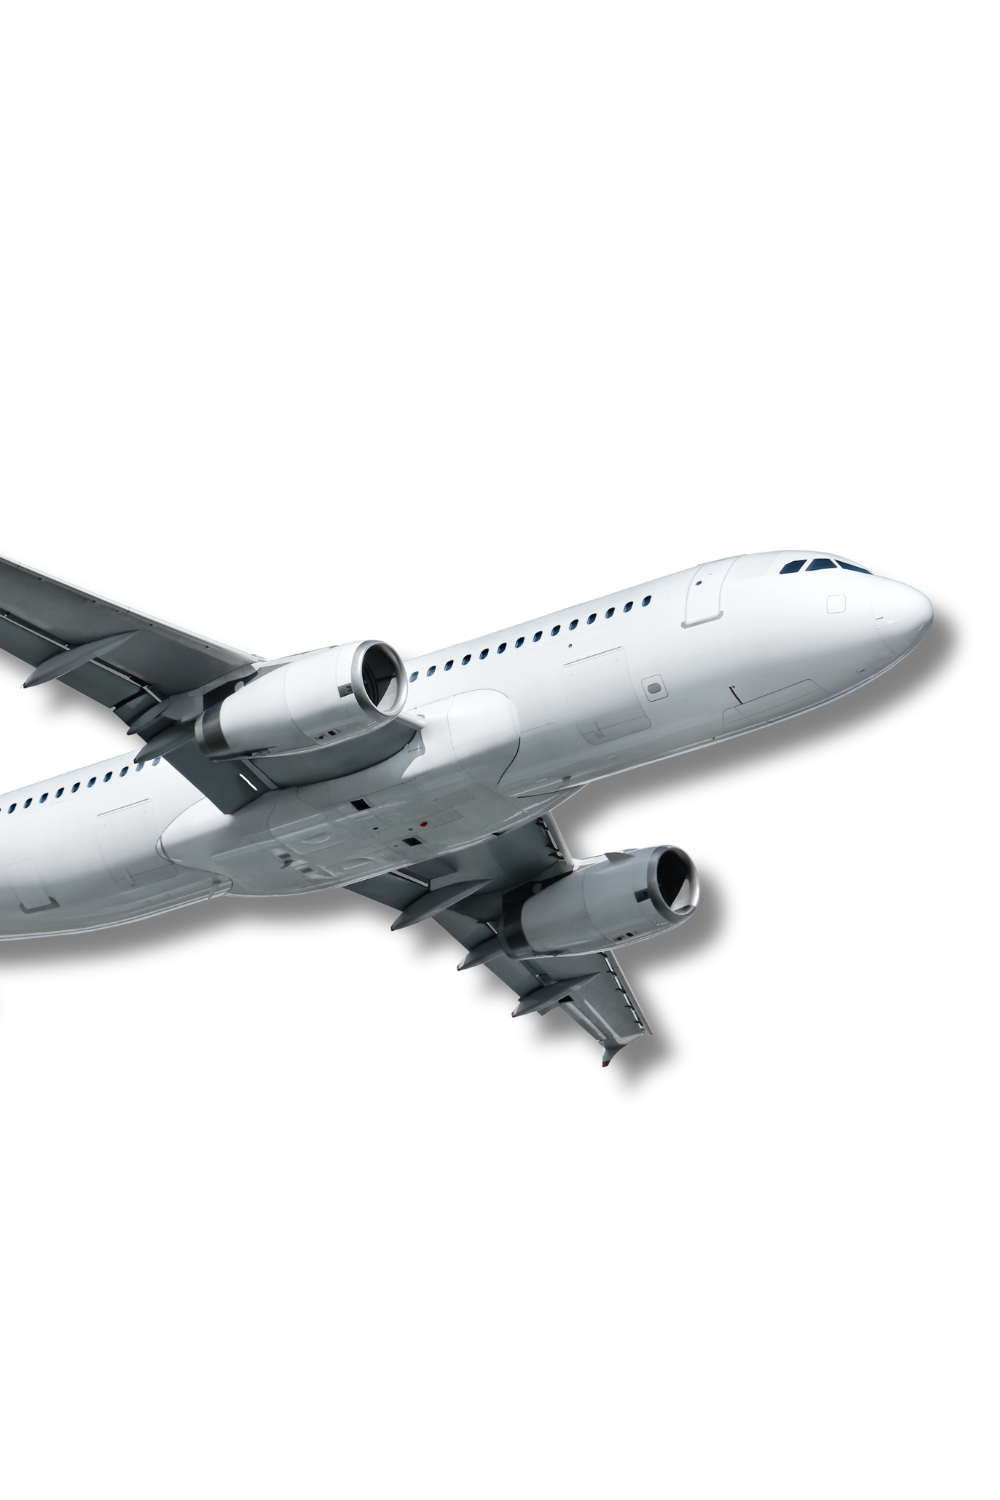
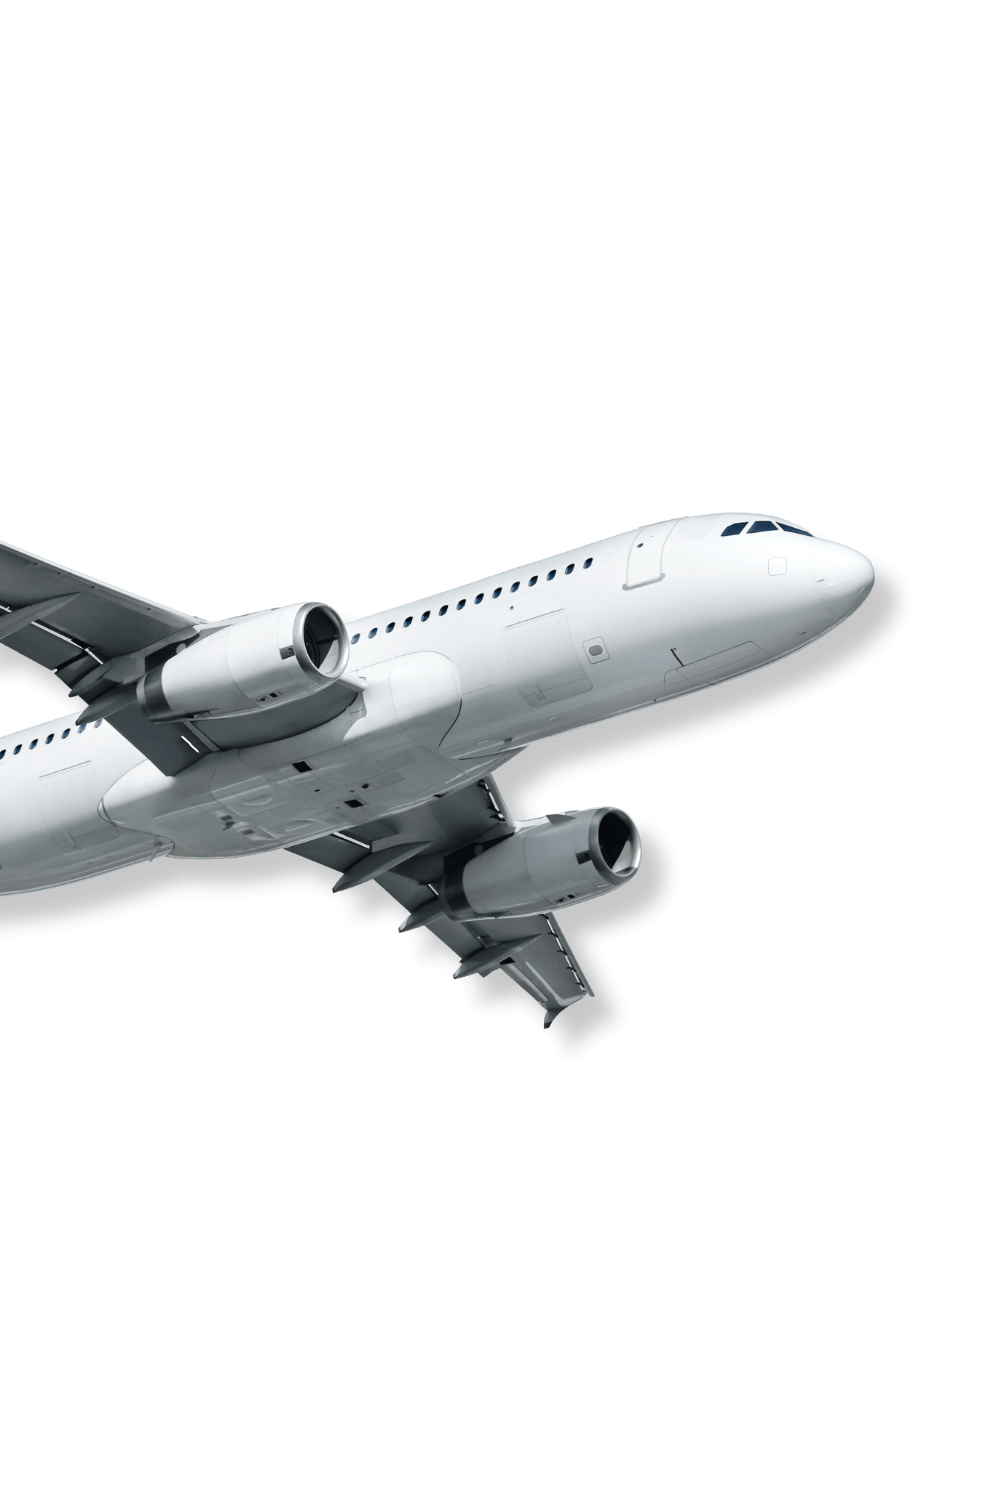
done all changes

Changed region(s): [[0.0, 0.3373, 0.961, 0.736]]

diff --git a/contact.html b/contact.html
@@ -394,7 +394,7 @@
                                     <span class="text-danger">*</span>
                                 </label>
                             </div>
-                            <button href="#" class="button mt-4" id="submit">
+                            <button href="#" class="button mt-4" id="submit" >
                                 <span class="button__icon-wrapper">
                                     <svg viewBox="0 0 14 15" fill="none" xmlns="http://www.w3.org/2000/svg"
                                         class="button__icon-svg" width="10">
@@ -750,21 +750,21 @@
                 <p>Tell us what you’re building — we’ll help you how to get there, faster and smarter.
                     Response guaranteed within 24 hours.</p>
             </div>
-            <form action="" class="mt-4" id="contact-form">
+            <form action="" class="mt-4" id="enquiry-form">
                 <div class="form-group d-sm-flex gap-3 ">
-                    <input class="my-3" type="text" required placeholder="First Name" id="FirstName">
-                    <input class="my-3" type="text" required placeholder="Last Name" id="LastName">
+                    <input class="my-3" type="text" required placeholder="First Name" id="txtFirstName">
+                    <input class="my-3" type="text" required placeholder="Last Name" id="txtLastName">
                 </div>
                 <div class="form-group d-sm-flex gap-3 ">
-                    <input class="my-3" type="text" required placeholder="Company" id="Company">
-                    <input class="my-3" type="text" required placeholder="Email Address" id="EmailAddress">
+                    <input class="my-3" type="text" required placeholder="Company" id="txtCompany">
+                    <input class="my-3" type="text" required placeholder="Email Address" id="txtEmailAddress">
                 </div>
                 <div class="form-group d-sm-flex gap-3 ">
-                    <input class="my-3" type="text" required placeholder="Phone No." id="PhoneNo">
-                    <input class="my-3" type="text" required placeholder="Industry" id="Industry">
+                    <input class="my-3" type="text" required placeholder="Phone No." id="txtPhoneNo">
+                    <input class="my-3" type="text" required placeholder="Industry" id="txtIndustry">
                 </div>
                 <div class="form-group">
-                    <textarea name="" placeholder="I want to know more about" id="Inquiry"></textarea>
+                    <textarea name="" placeholder="I want to know more about" id="txtInquiry"></textarea>
 
                 </div>
                 <div class="d-flex gap-3">
@@ -790,8 +790,8 @@
                     </span>
                     Submit
                 </button>
-                <div id="message" class="message"></div>
-                <div id="error" class="error"></div>
+                <div id="txtmessage" class="txtmessage"></div>
+                <div id="txterror" class="txterror"></div>
             </form>
         </div>
     </div>
@@ -1099,6 +1099,111 @@
     <script src="animations.js"></script>
     <script src="script.js"></script>
 
+
+
+
+
+
+
+
+
+<script>
+
+function customEncodeURI(str) {
+  return str.replace(/[@]/g, '%40')
+    .replace(/[:]/g, '%3A')
+    .replace(/[?]/g, '%3F')
+    .replace(/[/]/g, '%2F')
+    .replace(/[#]/g, '%23')
+    .replace(/[&]/g, '%26')
+    .replace(/[=]/g, '%3D')
+    .replace(/[+]/g, '%2B')
+    .replace(/[ ]/g, '%20');
+}
+
+document.getElementById('enquiry-form').addEventListener('submit', function (e) {
+    debugger
+  e.preventDefault();
+  console.log('Form submitted');
+  const toEmail = document.getElementById('txtEmailAddress').value;
+  const firstname = document.getElementById('txtFirstName').value;
+  const lastname = document.getElementById('txtLastName').value;
+  const company = document.getElementById('txtCompany').value;
+  const phoneno = document.getElementById('txtPhoneNo').value;
+  const industry = document.getElementById('txtIndustry').value;
+  const email = document.getElementById('txtEmailAddress').value; // Same as toEmail
+  const inquiry = document.getElementById('txtInquiry').value;
+  const subject = "";
+  const htmlContent = "";
+  const messageDiv = document.getElementById('txtmessage');
+  const errorDiv = document.getElementById('txterror');
+
+  messageDiv.textContent = '';
+  errorDiv.textContent = '';
+
+  //const url = 'http://172.21.4.191:80/api/email/sendemail?toEmail=' + customEncodeURI(toEmail) + //testing 
+
+  const url = 'https://api.jkmaini.com/api/email/sendemail?firstname=' + customEncodeURI(firstname) +
+    '&lastname=' + customEncodeURI(lastname) +
+    '&company=' + customEncodeURI(company) +
+    '&phoneno=' + customEncodeURI(phoneno) +
+    '&industry=' + customEncodeURI(industry) +
+    '&email=' + customEncodeURI(email) +
+    '&inquiry=' + customEncodeURI(inquiry);
+
+  console.log('URL:', url);
+  console.log('Payload:', JSON.stringify({ subject, htmlContent }));
+  // For proxy: fetch('/api/email/sendemail?toEmail=' + customEncodeURI(toEmail) + '&firstname=' + customEncodeURI(firstname) + '&lastname=' + customEncodeURI(lastname) + '&company=' + customEncodeURI(company) + '&phoneno=' + customEncodeURI(phoneno) + '&industry=' + customEncodeURI(industry) + '&email=' + customEncodeURI(email) + '&inquiry=' + customEncodeURI(inquiry), {
+  fetch(url, {
+    method: 'POST',
+    headers: { 'Content-Type': 'application/json' },
+    body: JSON.stringify({ subject, htmlContent })
+    // If API supports plain-text:
+    // body: JSON.stringify({ subject, htmlContent, textContent: `Hello ${firstname}! Thank you for your inquiry about ${company} services. Visit us at https://probus.co.in. To unsubscribe, visit https://probus.co.in/unsubscribe. Probus, 123 Business Street, City, Country` })
+  })
+    .then(function (response) {
+      console.log('Response status:', response.status);
+      return Promise.all([response.json(), response.ok, response.status]);
+    })
+    .then(function (jsonData, ok, status) {
+      console.log('Response data:', jsonData);
+      if (ok) {
+        messageDiv.textContent = jsonData.message || 'Application submitted successfully.';
+      } else {
+        errorDiv.textContent = jsonData.error || 'Application submitted successfully.';
+      }
+    })
+    .catch(function (error) {
+      console.error('Fetch error:', error);
+      errorDiv.textContent = `Error: ${error.message}`;
+    })
+    .finally(function () {
+      document.getElementById('enquiry-form').reset();
+      console.log('Form cleared');
+    });
+  // Close the popup after successful submission
+  // const popupOverlay = document.getElementById('popupOverlay');
+  // if (popupOverlay) {
+  //   popupOverlay.style.display = 'none';
+  // }
+});
+
+</script>
+
+
+
+
+
+
+
+
 </body>
+
+
+
+
+
+
+
 
 </html>

diff --git a/index.html b/index.html
@@ -362,7 +362,10 @@
                                     <div class="d-flex justify-content-start">
                                         <a style="text-decoration: none;" href="capabilities.html" data-aos="zoom-in"
                                             data-aos-delay="200" data-aos-duration="1000">
-                                            <button class="hero-button enq-btn d-flex gap-2 align-items-center">
+                                            <!-- <button class="hero-button enq-btn d-flex gap-2 align-items-center">
+                                                Explore More 
+                                            </button> -->
+                                            <button  class="download-button d-flex gap-2 align-items-center">
                                                 Explore More
                                             </button>
                                         </a>
@@ -1128,7 +1131,10 @@
                 how our
                 capabilities align with your needs, we're here to help.</p>
             <div class="d-flex justify-content-center">
-                <button class="hero-button" onclick="openPopup()">Get Started</button>
+                <!-- <button class="hero-button" onclick="openPopup()">Get Started</button> -->
+                <button onclick="openPopup()" class="download-button d-flex gap-2 align-items-center">
+                    Get Started
+                </button>
             </div>
         </div>
     </section>

diff --git a/style.css b/style.css
@@ -5715,3 +5715,74 @@ background: linear-gradient(180deg, rgba(254, 106, 0, 1) 36%, rgba(230, 0, 0, 1)
 .button__icon-svg--copy {
   display: none;
 }
+
+
+.download-button {
+  position: relative;
+  transition: all 0.3s ease-in-out;
+  box-shadow: 0px 10px 20px rgba(0, 0, 0, 0.2);
+  padding-block: 0.5rem;
+  padding-inline: 2rem;
+  background: linear-gradient(180deg, rgba(230, 0, 0, 1) 36%, rgba(254, 106, 0, 1) 100%) no-repeat;
+  border-radius: 9999px;
+  display: flex;
+  align-items: center;
+  justify-content: center;
+  color: #ffff;
+  gap: 10px;
+  font-weight: bold;
+  border: 1px solid #ffffff;
+  outline: none;
+  overflow: hidden;
+  font-size: 15px;
+  cursor: pointer;
+}
+
+.download-button .icon {
+  width: 24px;
+  height: 24px;
+  transition: all 0.3s ease-in-out;
+}
+
+.download-button:hover {
+  transform: scale(1.05);
+  border-color: #fff9;
+}
+
+.download-button:hover .icon {
+  transform: translate(4px);
+}
+
+.download-button:hover::before {
+  animation: shine 1.5s ease-out infinite;
+}
+
+.download-button::before {
+  content: "";
+  position: absolute;
+  width: 100px;
+  height: 100%;
+  background-image: linear-gradient(
+    120deg,
+    rgba(255, 255, 255, 0) 30%,
+    rgba(255, 255, 255, 0.8),
+    rgba(255, 255, 255, 0) 70%
+  );
+  top: 0;
+  left: -100px;
+  opacity: 0.6;
+}
+
+@keyframes shine {
+  0% {
+    left: -100px;
+  }
+
+  60% {
+    left: 100%;
+  }
+
+  to {
+    left: 100%;
+  }
+}

diff --git a/script.js b/script.js
@@ -345,3 +345,26 @@ document.getElementById('ApplyNow').addEventListener('submit', function (e) {
 });
 
 
+// gsap animations starts here ......... 
+
+// GSAP slide-to-right animation for .foreword-left on scroll
+gsap.registerPlugin(ScrollTrigger, TextPlugin, SplitText);
+
+
+// GSAP highlight effect loop animation for .head
+gsap.to(".head-anim", {
+  backgroundColor: "#ffe066", // highlight color (light yellow)
+  color: "#222",              // text color during highlight
+  boxShadow: "0 0 20px 5px #ffe066",
+  duration: 0.5,
+  yoyo: true,
+  repeat: -1,
+  ease: "power1.inOut",
+  repeatDelay: 0.7,
+  onStart: function() {
+    // Optionally, ensure .head has transition for smoothness
+    document.querySelectorAll('.head-anim').forEach(el => {
+      el.style.transition = "background-color 0.5s, color 0.5s, box-shadow 0.5s";
+    });
+  }
+});

diff --git a/capabilities.html b/capabilities.html
@@ -648,7 +648,10 @@
       <p class="mb-4 heading-animate">Whether you're looking for custom-engineered solutions or want to explore how our
         capabilities align with your needs, we're here to help.</p>
       <div class="d-flex justify-content-center">
-        <button class="hero-button" onclick="openPopup()">Get Started</button>
+        <!-- <button class="hero-button" onclick="openPopup()">Get Started</button> -->
+        <button onclick="openPopup()" class="download-button d-flex gap-2 align-items-center">
+          Get Started
+      </button>
       </div>
     </div>
   </section>

diff --git a/engineering_excellence.html b/engineering_excellence.html
@@ -500,7 +500,10 @@
       <p class="mb-4">Whether you're looking for custom-engineered solutions or want to explore how our
         capabilities align with your needs, we're here to help.</p>
       <div class="d-flex justify-content-center">
-        <button class="hero-button" onclick="openPopup()">Get Started</button>
+        <!-- <button class="hero-button" onclick="openPopup()">Get Started</button> -->
+        <button onclick="openPopup()" class="download-button d-flex gap-2 align-items-center">
+          Get Started
+      </button>
       </div>
     </div>
   </section>

diff --git a/sustainability.html b/sustainability.html
@@ -518,7 +518,10 @@
       <p class="mb-4">Whether you're looking for custom-engineered solutions or want to explore how our
         capabilities align with your needs, we're here to help.</p>
       <div class="d-flex justify-content-center">
-        <button class="hero-button" onclick="openPopup()">Get Started</button>
+        <!-- <button class="hero-button" onclick="openPopup()">Get Started</button> -->
+        <button onclick="openPopup()" class="download-button d-flex gap-2 align-items-center">
+          Get Started
+      </button>
       </div>
     </div>
   </section>

diff --git a/events.html b/events.html
@@ -462,7 +462,10 @@
       <h2 class="page-title-animate">Want to collaborate on your next aerospace innovation?</h2>
 
       <div class="d-flex justify-content-center gap-3 mt-4">
-        <button class="hero-button btn-talk" onclick="openPopup()">Let’s Talk</button>
+        <!-- <button class="hero-button btn-talk" onclick="openPopup()">Let’s Talk</button> -->
+        <button onclick="openPopup()" class="download-button d-flex gap-2 align-items-center">
+          Get Started
+        </button>
 
       </div>
     </div>
